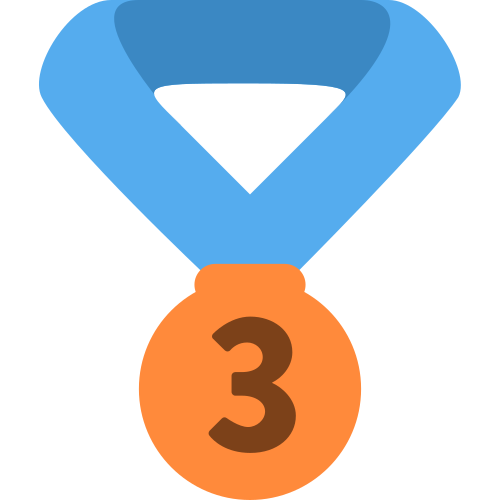
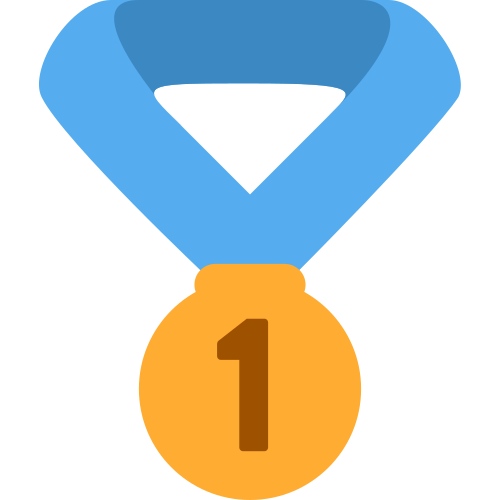
Fixed some stuff.

Changed region(s): [[0.27, 0.51, 0.72, 1.0]]

diff --git a/src/main/java/net/kodehawa/mantarobot/commands/LeaderboardCmd.java b/src/main/java/net/kodehawa/mantarobot/commands/LeaderboardCmd.java
@@ -36,6 +36,7 @@ import net.kodehawa.mantarobot.core.modules.commands.i18n.I18nContext;
 import net.kodehawa.mantarobot.utils.Utils;
 import net.kodehawa.mantarobot.utils.commands.EmoteReference;
 import net.kodehawa.mantarobot.utils.commands.RateLimiter;
+import org.apache.commons.lang3.StringUtils;
 import org.apache.commons.lang3.tuple.Pair;
 
 import java.util.HashMap;
@@ -171,10 +172,10 @@ public class LeaderboardCmd {
                 );
 
                 event.getChannel().sendMessage(generateLeaderboardEmbed(event, languageContext,
-                        String.format(languageContext.get("commands.leaderboard.inner.level"), EmoteReference.ZAP),"commands.leaderboard.level", c,
+                        String.format(languageContext.get("commands.leaderboard.inner.lvl"), EmoteReference.ZAP),"commands.leaderboard.level", c,
                         map -> Pair.of(MantaroBot.getInstance().getUserById(map.get("id").toString().split(":")[0]), map.get("level").toString() +
                                 "\n -" + languageContext.get("commands.leaderboard.inner.experience")  + ":** " +
-                                ((Map)map.get("data")).get("experience") + "**"), "%s**%s#%s** - %,d")
+                                ((Map)map.get("data")).get("experience") + "**"), "%s**%s#%s** - %s")
                         .build()
                 ).queue();
             }
@@ -189,7 +190,7 @@ public class LeaderboardCmd {
                 );
 
                 event.getChannel().sendMessage(generateLeaderboardEmbed(event, languageContext,
-                        String.format(languageContext.get("commands.leaderboard.inner.reputation"), EmoteReference.REP),"commands.leaderboard.reputation", c,
+                        String.format(languageContext.get("commands.leaderboard.inner.rep"), EmoteReference.REP),"commands.leaderboard.reputation", c,
                         map -> Pair.of(MantaroBot.getInstance().getUserById(map.get("id").toString().split(":")[0]),
                                 map.get("reputation").toString()), "%s**%s#%s** - %,d")
                         .build()
@@ -206,7 +207,7 @@ public class LeaderboardCmd {
                 );
 
                 event.getChannel().sendMessage(generateLeaderboardEmbed(event, languageContext,
-                        String.format(languageContext.get("commands.leaderboard.inner.daily"), EmoteReference.POPPER),"commands.leaderboard.daily", c,
+                        String.format(languageContext.get("commands.leaderboard.inner.streak"), EmoteReference.POPPER),"commands.leaderboard.daily", c,
                         map -> Pair.of(MantaroBot.getInstance().getUserById(map.get("id").toString().split(":")[0]),
                                 ((HashMap)(map.get("data"))).get("dailyStrike").toString()), "%s**%s#%s** - %sx")
                         .build()
@@ -302,7 +303,9 @@ public class LeaderboardCmd {
                 .addField(languageContext.get(leaderboardKey), lb.stream()
                         .map(mapFunction)
                         .filter(p -> Objects.nonNull(p.getKey()))
-                        .map(p -> String.format(format, EmoteReference.BLUE_SMALL_MARKER, p.getKey().getName(), p.getKey().getDiscriminator(), Long.parseLong(p.getValue())))
+                        .map(p -> String.format(format, EmoteReference.BLUE_SMALL_MARKER, p.getKey().getName(),
+                                p.getKey().getDiscriminator(), StringUtils.isNumeric(p.getValue()) ? Long.parseLong(p.getValue()) : p.getValue())
+                        )
                         .collect(Collectors.joining("\n")), false)
                 .setFooter(String.format(languageContext.get("general.requested_by"), event.getAuthor().getName()), null)
                 .setThumbnail(event.getAuthor().getEffectiveAvatarUrl());

diff --git a/src/main/java/net/kodehawa/mantarobot/commands/CurrencyCmds.java b/src/main/java/net/kodehawa/mantarobot/commands/CurrencyCmds.java
@@ -598,20 +598,8 @@ public class CurrencyCmds {
                     return;
                 }
 
-                if(!handleDefaultRatelimit(rl, event.getAuthor(), event)) return;
-
-                String partyKey = event.getAuthor().getId() + ":" + giveTo.getId();
-                if(!partyRateLimiter.process(partyKey)) {
-                    event.getChannel().sendMessage(
-                            EmoteReference.STOPWATCH +
-                                    String.format(languageContext.get("commands.transfer.party"), giveTo.getId()) + " (Ratelimited)" +
-                                    "\n **You'll be able to transfer to this user again in " + Utils.getHumanizedTime(partyRateLimiter.tryAgainIn(partyKey))
-                                    + ".**"
-                    ).queue();
-
-                    MantaroBot.getInstance().getStatsClient().increment("ratelimits");
+                if(!handleDefaultRatelimit(rl, event.getAuthor(), event))
                     return;
-                }
 
                 long toSend; // = 0 at the start
 
@@ -657,8 +645,21 @@ public class CurrencyCmds {
                     return;
                 }
 
-                if(toTransfer.getMoney() > (long) TRANSFER_LIMIT * 20) {
+                if(toTransfer.getMoney() > (long) TRANSFER_LIMIT * 18) {
                     event.getChannel().sendMessageFormat(languageContext.get("commands.transfer.receipt_over_limit"), EmoteReference.ERROR).queue();
+                    return;
+                }
+
+                String partyKey = event.getAuthor().getId() + ":" + giveTo.getId();
+                if(!partyRateLimiter.process(partyKey)) {
+                    event.getChannel().sendMessage(
+                            EmoteReference.STOPWATCH +
+                                    String.format(languageContext.get("commands.transfer.party"), giveTo.getName()) + " (Ratelimited)" +
+                                    "\n **You'll be able to transfer to this user again in " + Utils.getHumanizedTime(partyRateLimiter.tryAgainIn(partyKey))
+                                    + ".**"
+                    ).queue();
+
+                    MantaroBot.getInstance().getStatsClient().increment("ratelimits");
                     return;
                 }
 
@@ -669,7 +670,8 @@ public class CurrencyCmds {
                     transferPlayer.saveAsync();
 
                     event.getChannel().sendMessageFormat(languageContext.get("commands.transfer.success"), EmoteReference.CORRECT, toSend, amountTransfer,
-                            event.getMessage().getMentionedUsers().get(0).getName()).queue();
+                            event.getMessage().getMentionedUsers().get(0).getName()
+                    ).queue();
 
                     toTransfer.saveAsync();
                     rl.process(toTransfer.getUserId());
